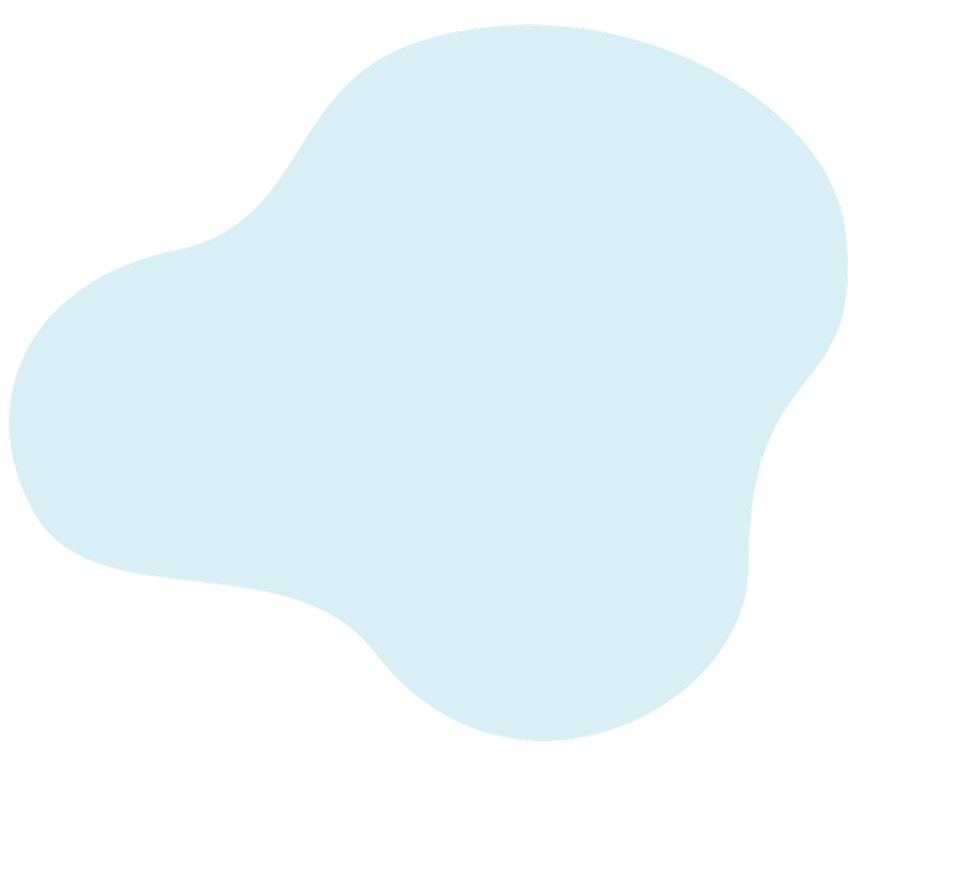
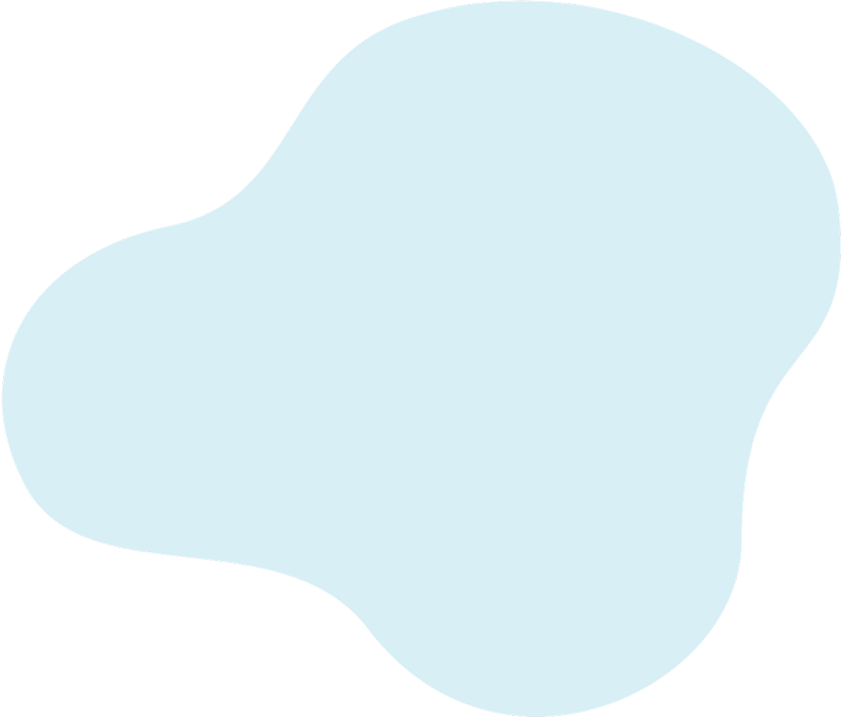
centring bacground home

Changed region(s): [[0.0, 0.0, 1.0, 1.0], [0.0, 0.0305, 0.4313, 0.4875], [0.4621, 0.0305, 0.4929, 0.0609]]

diff --git a/src/Component/HomeMenu/Menu.js b/src/Component/HomeMenu/Menu.js
@@ -28,15 +28,16 @@ function Menu() {
 
 
             </div>
-            <div>
-                    
-                    <img className={style.bacground} src='image/bachground/shapes.png' />
+            <div className={style.about_us}>
+                <div className={`${style.menu_about_us} ${style.flex_center} ${style.text_center}`}>
+                    <h1>Tentang Kami</h1>
+                    <p>Kami merancang website untuk menciptakan lingkungan kepemondokan <br /> yang lebih disiplin, adil, dan termotivasi .Kami percaya bahwa sistem reward <br />dan pencatatan pelanggaran yang transparan dapat membantu meningkatkan <br />kedisiplinan serta memberikan apresiasi bagi mereka yang berprestasi.</p>
+                </div>
+                <img className={style.bacground_about_us} src='image/bachground/shapes.png' />
             </div>
-            <div className={`${style.menu_about_us} ${style.flex_center} ${style.text_center}`}>
-                <h1>Tentang Kami</h1>
-                <p>Kami merancang website untuk menciptakan lingkungan kepemondokan <br /> yang lebih disiplin, adil, dan termotivasi .Kami percaya bahwa sistem reward <br />dan pencatatan pelanggaran yang transparan dapat membantu meningkatkan <br />kedisiplinan serta memberikan apresiasi bagi mereka yang berprestasi.</p>
-            </div>
+
         </div>
+
     )
 }
 

diff --git a/src/Component/HomeMenu/Menu.module.css b/src/Component/HomeMenu/Menu.module.css
@@ -19,7 +19,10 @@
 .container_home_menu {
     display: flex;
     justify-content: space-around;
+    align-items: center;
 }
+
+
 
 .btn_menu {
     color: white;
@@ -31,6 +34,9 @@
     box-shadow: .8px .9px 3px grey;
     transition: box-shadow .2s ease-in;
     text-decoration: none;
+    margin-top: 16px;
+    margin-right: 8px;
+    margin-left: 8px;
 }
 
 .btn_menu:hover {
@@ -45,7 +51,6 @@
 }
 
 .flex_center {
-    margin: 8px;
     display: flex;
     flex-direction: column;
     align-items: center;
@@ -55,10 +60,14 @@
 .text_center {
     text-align: center;
     text-decoration: none;
+    position: absolute;
+    top: 50%;
+    left: 50%;
+    transform: translate(-50%, -50%);
+    width: 750px;
 }
 
-.bacground {
-    background-size: cover;
-    background-position: center;
-    background-repeat: no-repeat;
+.about_us {
+    position: relative;
 }
+
